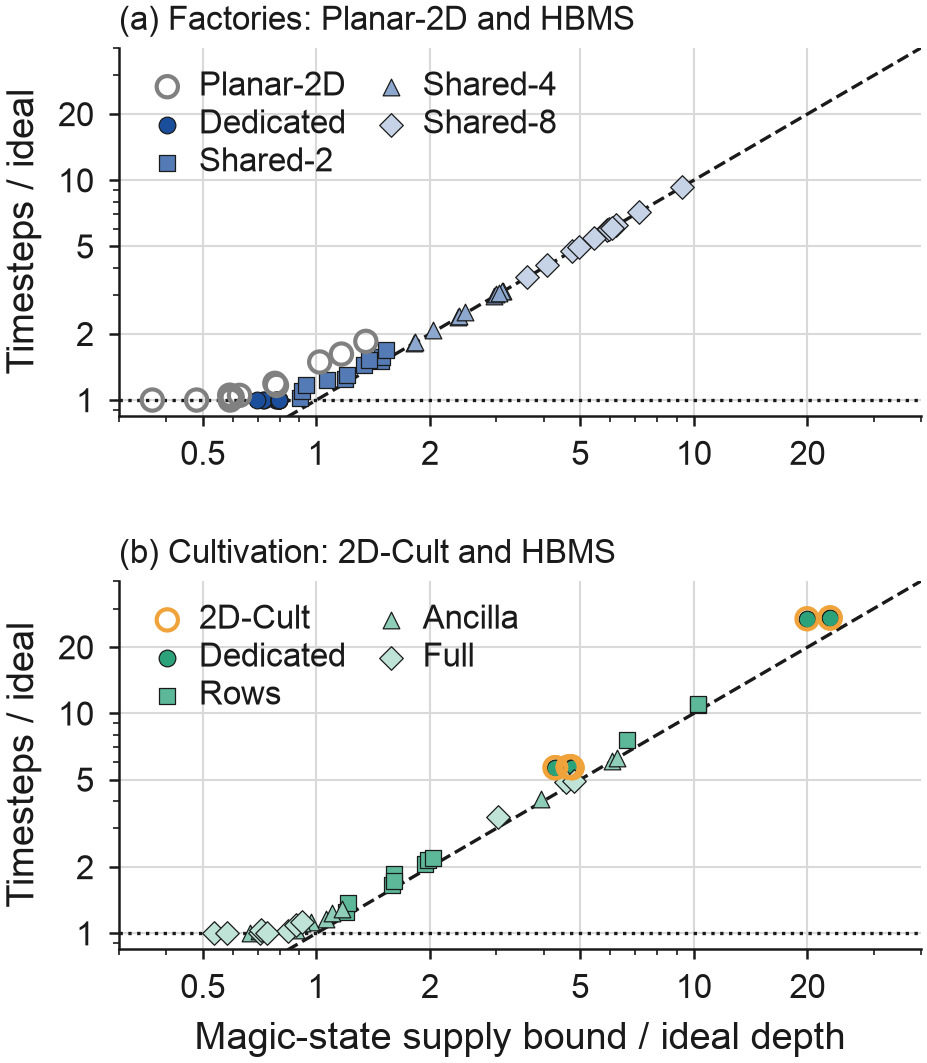
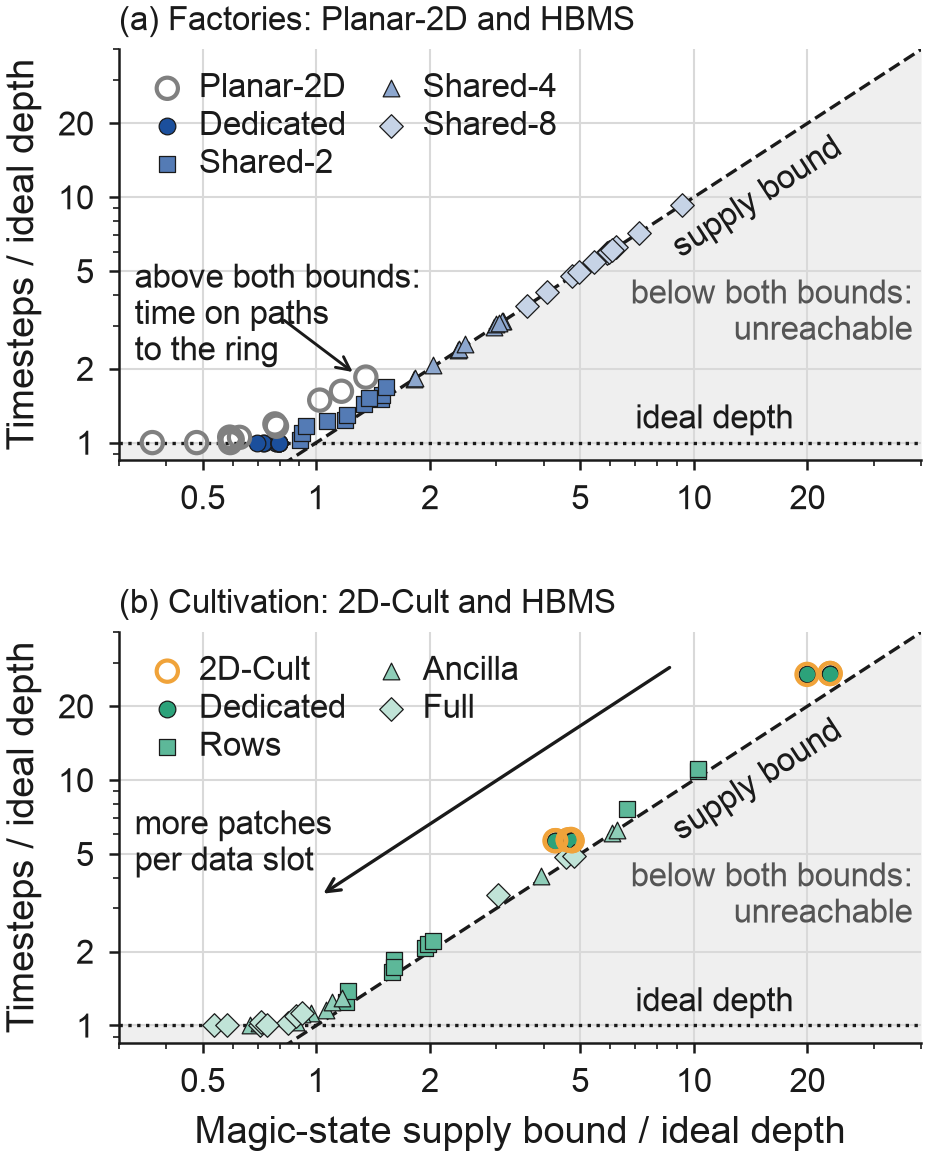
plot_eval2.py: roofline with the unreachable region shaded, named bounds and annotations

diff --git a/scripts/revision/plot_eval2.py b/scripts/revision/plot_eval2.py
@@ -130,34 +130,42 @@ def supply_bound(c, tq):
     return (k - 1) * period + 1  # every resource starts the run holding a T state
 
 
+def _line_angle(ax, x0, x1):
+    """Screen angle (degrees) of the line y = x between x0 and x1 on log-log axes."""
+    p0, p1 = ax.transData.transform([(x0, x0), (x1, x1)])
+    return math.degrees(math.atan2(p1[1] - p0[1], p1[0] - p0[0]))
+
+
 def roofline(cells13, benches, tq, path):
-    fig, axes = plt.subplots(2, 1, figsize=(COL, 3.9), gridspec_kw=dict(hspace=0.45))
-    for ax, (fam, (base, specs), tag) in zip(axes, KINDS):
-        series = [(base, "Planar-2D" if base == "D0-alt" else "2D-Cult", BASE_COLOUR[base], "X")]
-        series += [(s, lab, ramp(fam, k, len(specs)), MARKS[k]) for k, (s, lab) in
-                   enumerate(specs)]
-        xs_all = []
-        for spec, lab, colour, mk in series:
-            pts = []
-            for b in benches:
-                c = cells13[b].get(spec)
-                if not c:
-                    continue
-                ideal = num(c["ideal_depth"])
-                pts.append((supply_bound(c, tq[b]) / ideal, num(c["steps"]) / ideal))
-            xs_all += [p[0] for p in pts]
-            hollow = spec in BASE_COLOUR  # the baseline on top, hollow: 2D-Cult hides Dedicated
-            ax.scatter([p[0] for p in pts], [p[1] for p in pts], s=26 if hollow else 16,
-                       marker="o" if hollow else mk, facecolor="none" if hollow else colour,
-                       edgecolor=colour if hollow else INK, linewidth=1.0 if hollow else 0.3,
-                       zorder=4 if hollow else 3, label=lab)
-        lo, hi = 0.3, 40
-        ax.plot([lo, hi], [lo, hi], color=INK, lw=0.8, ls="--", zorder=1)
-        ax.axhline(1, color=INK, lw=0.8, ls=":", zorder=1)
+    fig, axes = plt.subplots(2, 1, figsize=(COL, 4.3), gridspec_kw=dict(hspace=0.42))
+    lo, hi, ylo = 0.3, 40, 0.85
+    tags = ("(a) Factories: Planar-2D and HBMS", "(b) Cultivation: 2D-Cult and HBMS")
+    for ax, (fam, (base, specs), _), tag in zip(axes, KINDS, tags):
         ax.set_xscale("log")
         ax.set_yscale("log")
         ax.set_xlim(lo, hi)
-        ax.set_ylim(0.85, hi)
+        ax.set_ylim(ylo, hi)
+        # what no run can reach: below both the ideal depth and the supply bound
+        xx = np.logspace(math.log10(lo), math.log10(hi), 200)
+        ax.fill_between(xx, ylo, np.maximum(1, xx), color="#EFEFEF", lw=0, zorder=0)
+        ax.plot([lo, hi], [lo, hi], color=INK, lw=0.8, ls="--", zorder=1)
+        ax.axhline(1, color=INK, lw=0.8, ls=":", zorder=1)
+        series = [(base, "Planar-2D" if base == "D0-alt" else "2D-Cult", BASE_COLOUR[base], "X")]
+        series += [(s_, lab, ramp(fam, k, len(specs)), MARKS[k]) for k, (s_, lab) in
+                   enumerate(specs)]
+        for spec, lab, colour, mk in series:
+            pts = []
+            for bn in benches:
+                c = cells13[bn].get(spec)
+                if not c:
+                    continue
+                ideal = num(c["ideal_depth"])
+                pts.append((supply_bound(c, tq[bn]) / ideal, num(c["steps"]) / ideal))
+            hollow = spec in BASE_COLOUR  # the baseline on top, hollow: 2D-Cult hides Dedicated
+            ax.scatter([q[0] for q in pts], [q[1] for q in pts], s=26 if hollow else 16,
+                       marker="o" if hollow else mk, facecolor="none" if hollow else colour,
+                       edgecolor=colour if hollow else INK, linewidth=1.0 if hollow else 0.3,
+                       zorder=4 if hollow else 3, label=lab)
         for axis in (ax.xaxis, ax.yaxis):
             axis.set_major_formatter(mticker.FuncFormatter(lambda v, _: f"{v:g}"))
             axis.set_minor_formatter(mticker.NullFormatter())
@@ -165,18 +173,29 @@ def roofline(cells13, benches, tq, path):
         ax.yaxis.set_major_locator(mticker.FixedLocator([1, 2, 5, 10, 20]))
         ax.grid(True, which="major", color=GRID, lw=0.5)
         ax.set_axisbelow(True)
-        ax.set_ylabel("Timesteps / ideal")
-        ax.text(0.0, 1.03, tag.split(":")[0] + ":" + tag.split(":")[1].split("/")[0].rstrip()
-                .replace(" Planar-2D", " Planar-2D and HBMS").replace(" 2D-Cult",
-                                                                       " 2D-Cult and HBMS"),
-                transform=ax.transAxes, fontsize=8, va="bottom", ha="left")
+        ax.set_ylabel("Timesteps / ideal depth")
+        ax.text(0.0, 1.03, tag, transform=ax.transAxes, fontsize=8, va="bottom", ha="left")
+        # the two bounds, named on the plot
+        ax.text(7, 1.07, "ideal depth", fontsize=8, ha="left", va="bottom", color=INK)
+        ang = _line_angle(ax, 12, 30)
+        ax.text(14, 14 / 1.25, "supply bound", fontsize=8, ha="center", va="top",
+                rotation=ang, rotation_mode="anchor", color=INK)  # below the line: no markers
+        ax.text(38, 2.4, "below both bounds:\nunreachable", fontsize=8, ha="right",
+                va="bottom", color=MUTED)
         ax.legend(loc="upper left", fontsize=8, ncol=2, handletextpad=0.2, columnspacing=0.6,
-                  labelspacing=0.2, borderaxespad=0.3)
+                  labelspacing=0.2, borderaxespad=0.3, frameon=False)
+    axes[0].annotate("above both bounds:\ntime on paths\nto the ring", xy=(1.3, 1.85),
+                     xytext=(0.33, 3.3), fontsize=8, ha="left", va="center", color=INK,
+                     arrowprops=dict(arrowstyle="->", color=INK, lw=0.7))
+    axes[1].annotate("", xy=(1.0, 3.3), xytext=(9, 30),  # parallel to the bound, above it
+                     arrowprops=dict(arrowstyle="->", color=INK, lw=0.8))
+    axes[1].text(0.33, 5.5, "more patches\nper data slot", fontsize=8, ha="left", va="center",
+                 color=INK)
     axes[-1].set_xlabel("Magic-state supply bound / ideal depth")
     save(fig, path)
     return ("Timesteps against the magic-state supply bound, both over the ideal depth, one "
             "marker per circuit and configuration: (a) with factories, (b) with cultivation "
-            "patches. Dashed: the supply bound. Dotted: the ideal depth.")
+            "patches. No run can fall below both lines.")
 
 
 # ---------------------------------------------------------------- error budget
